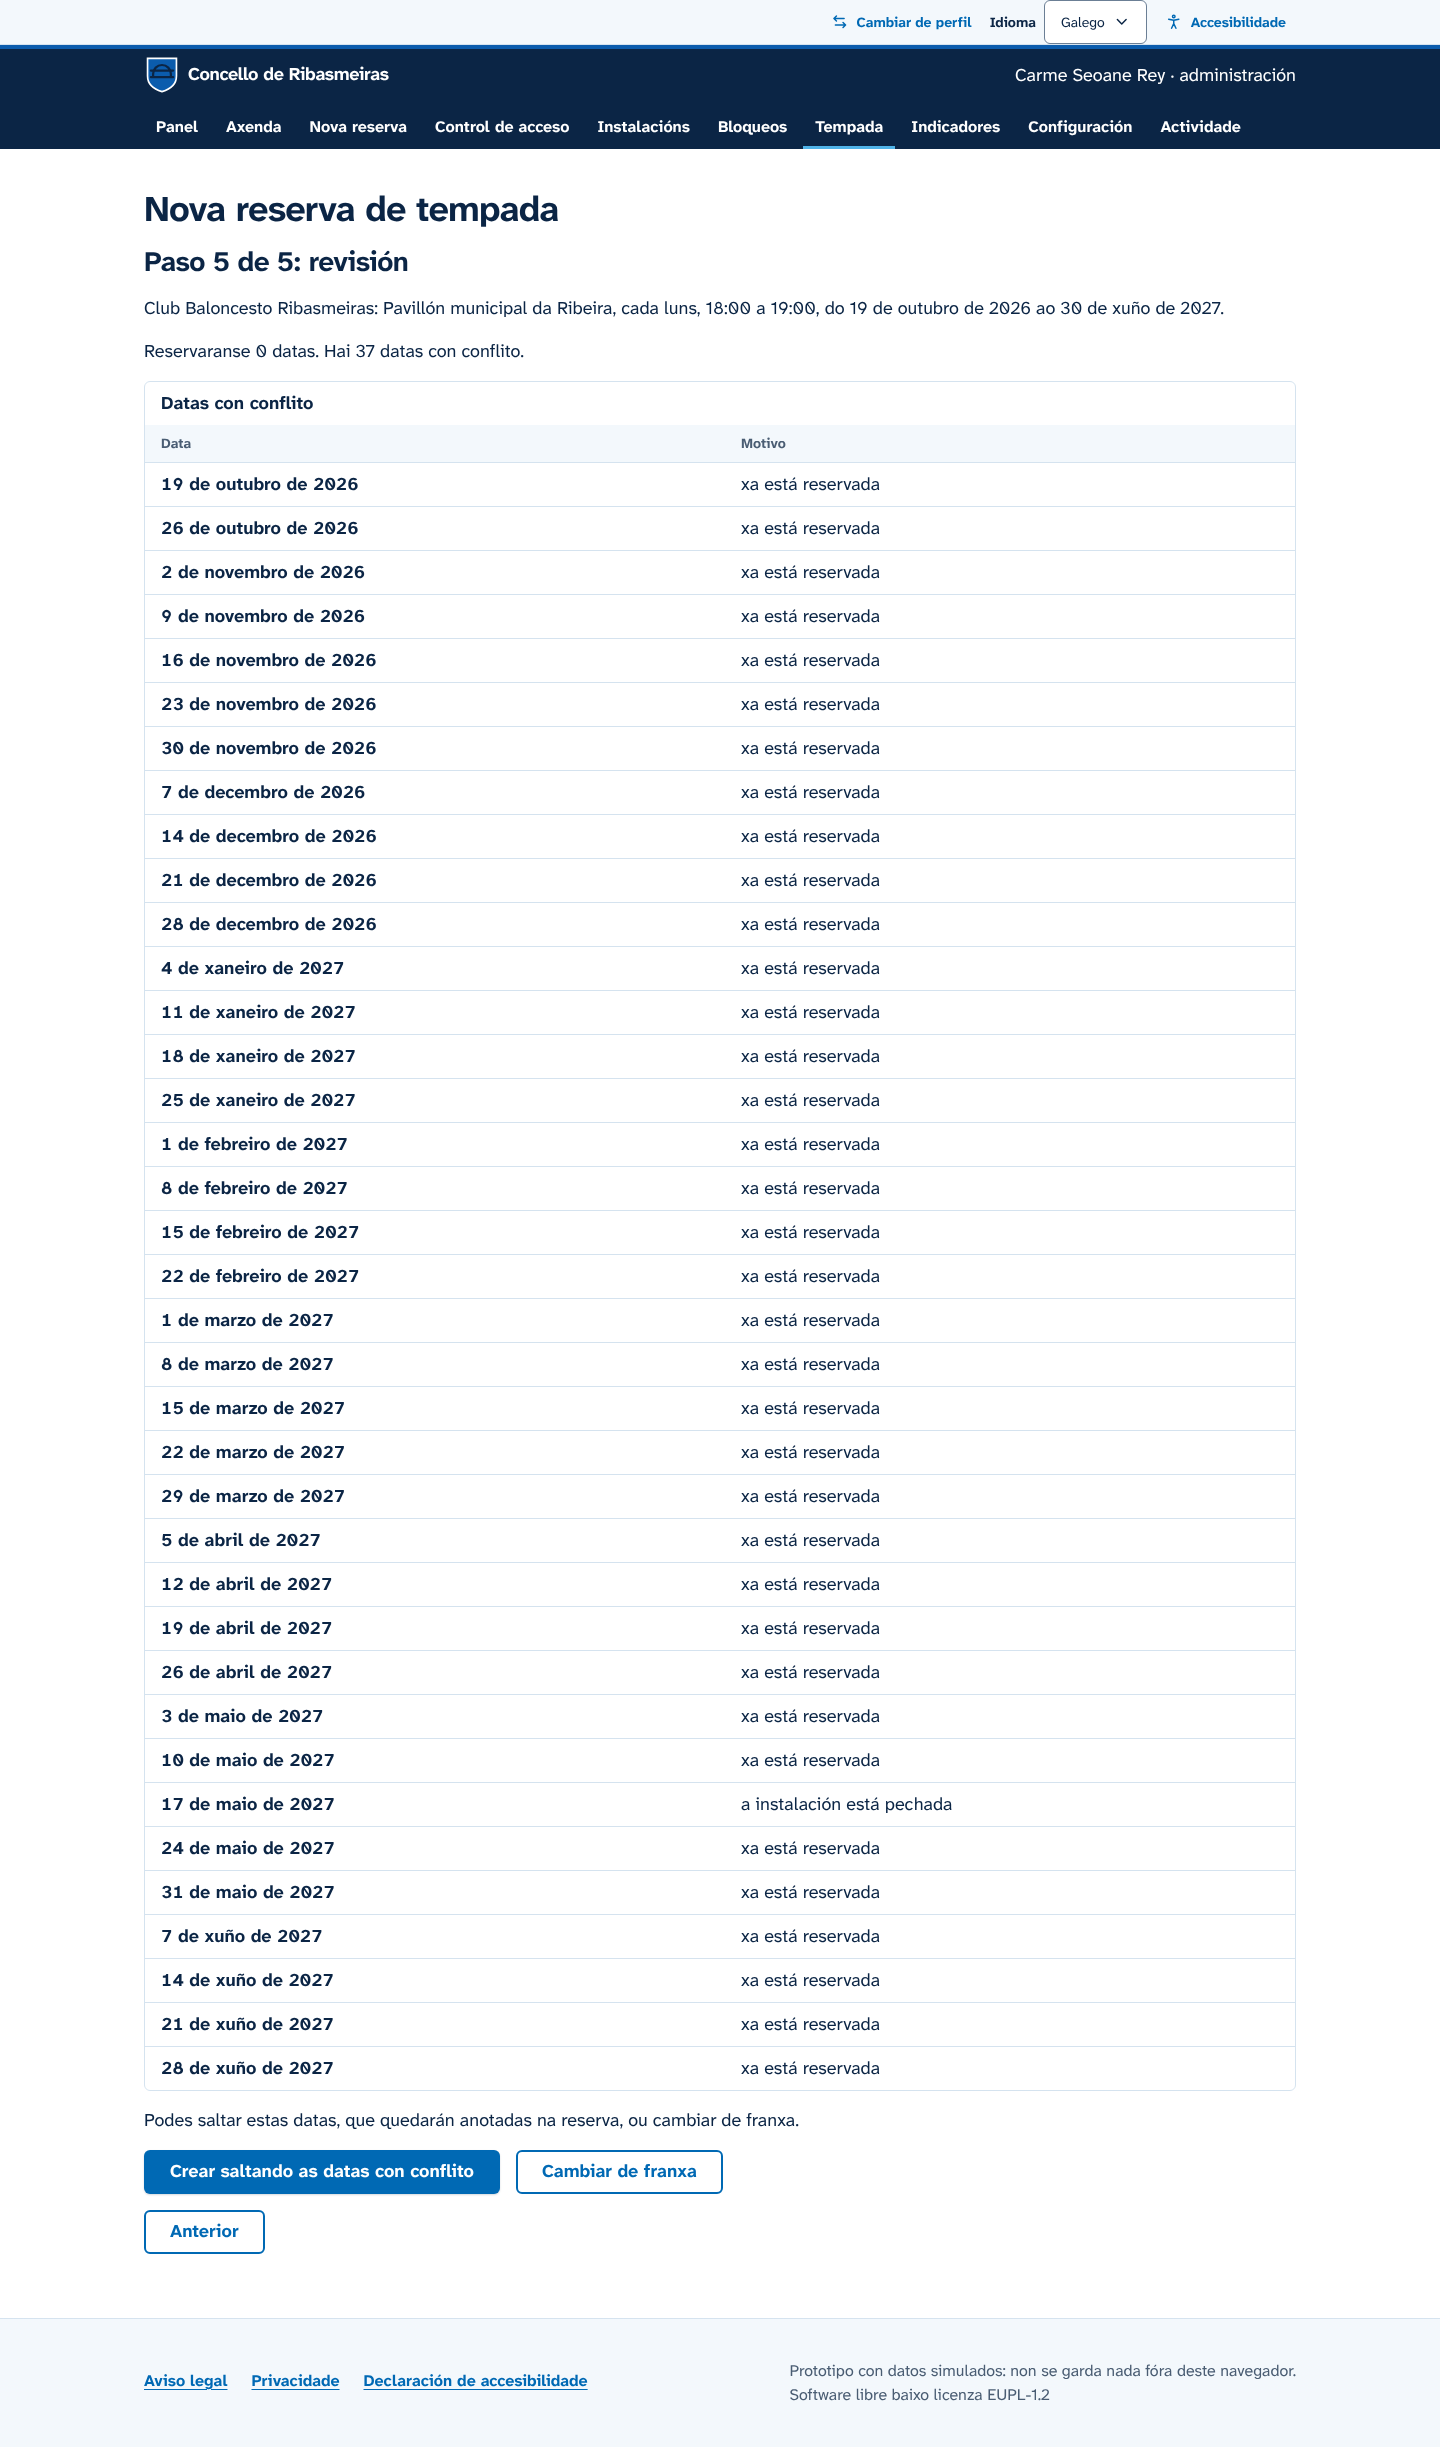
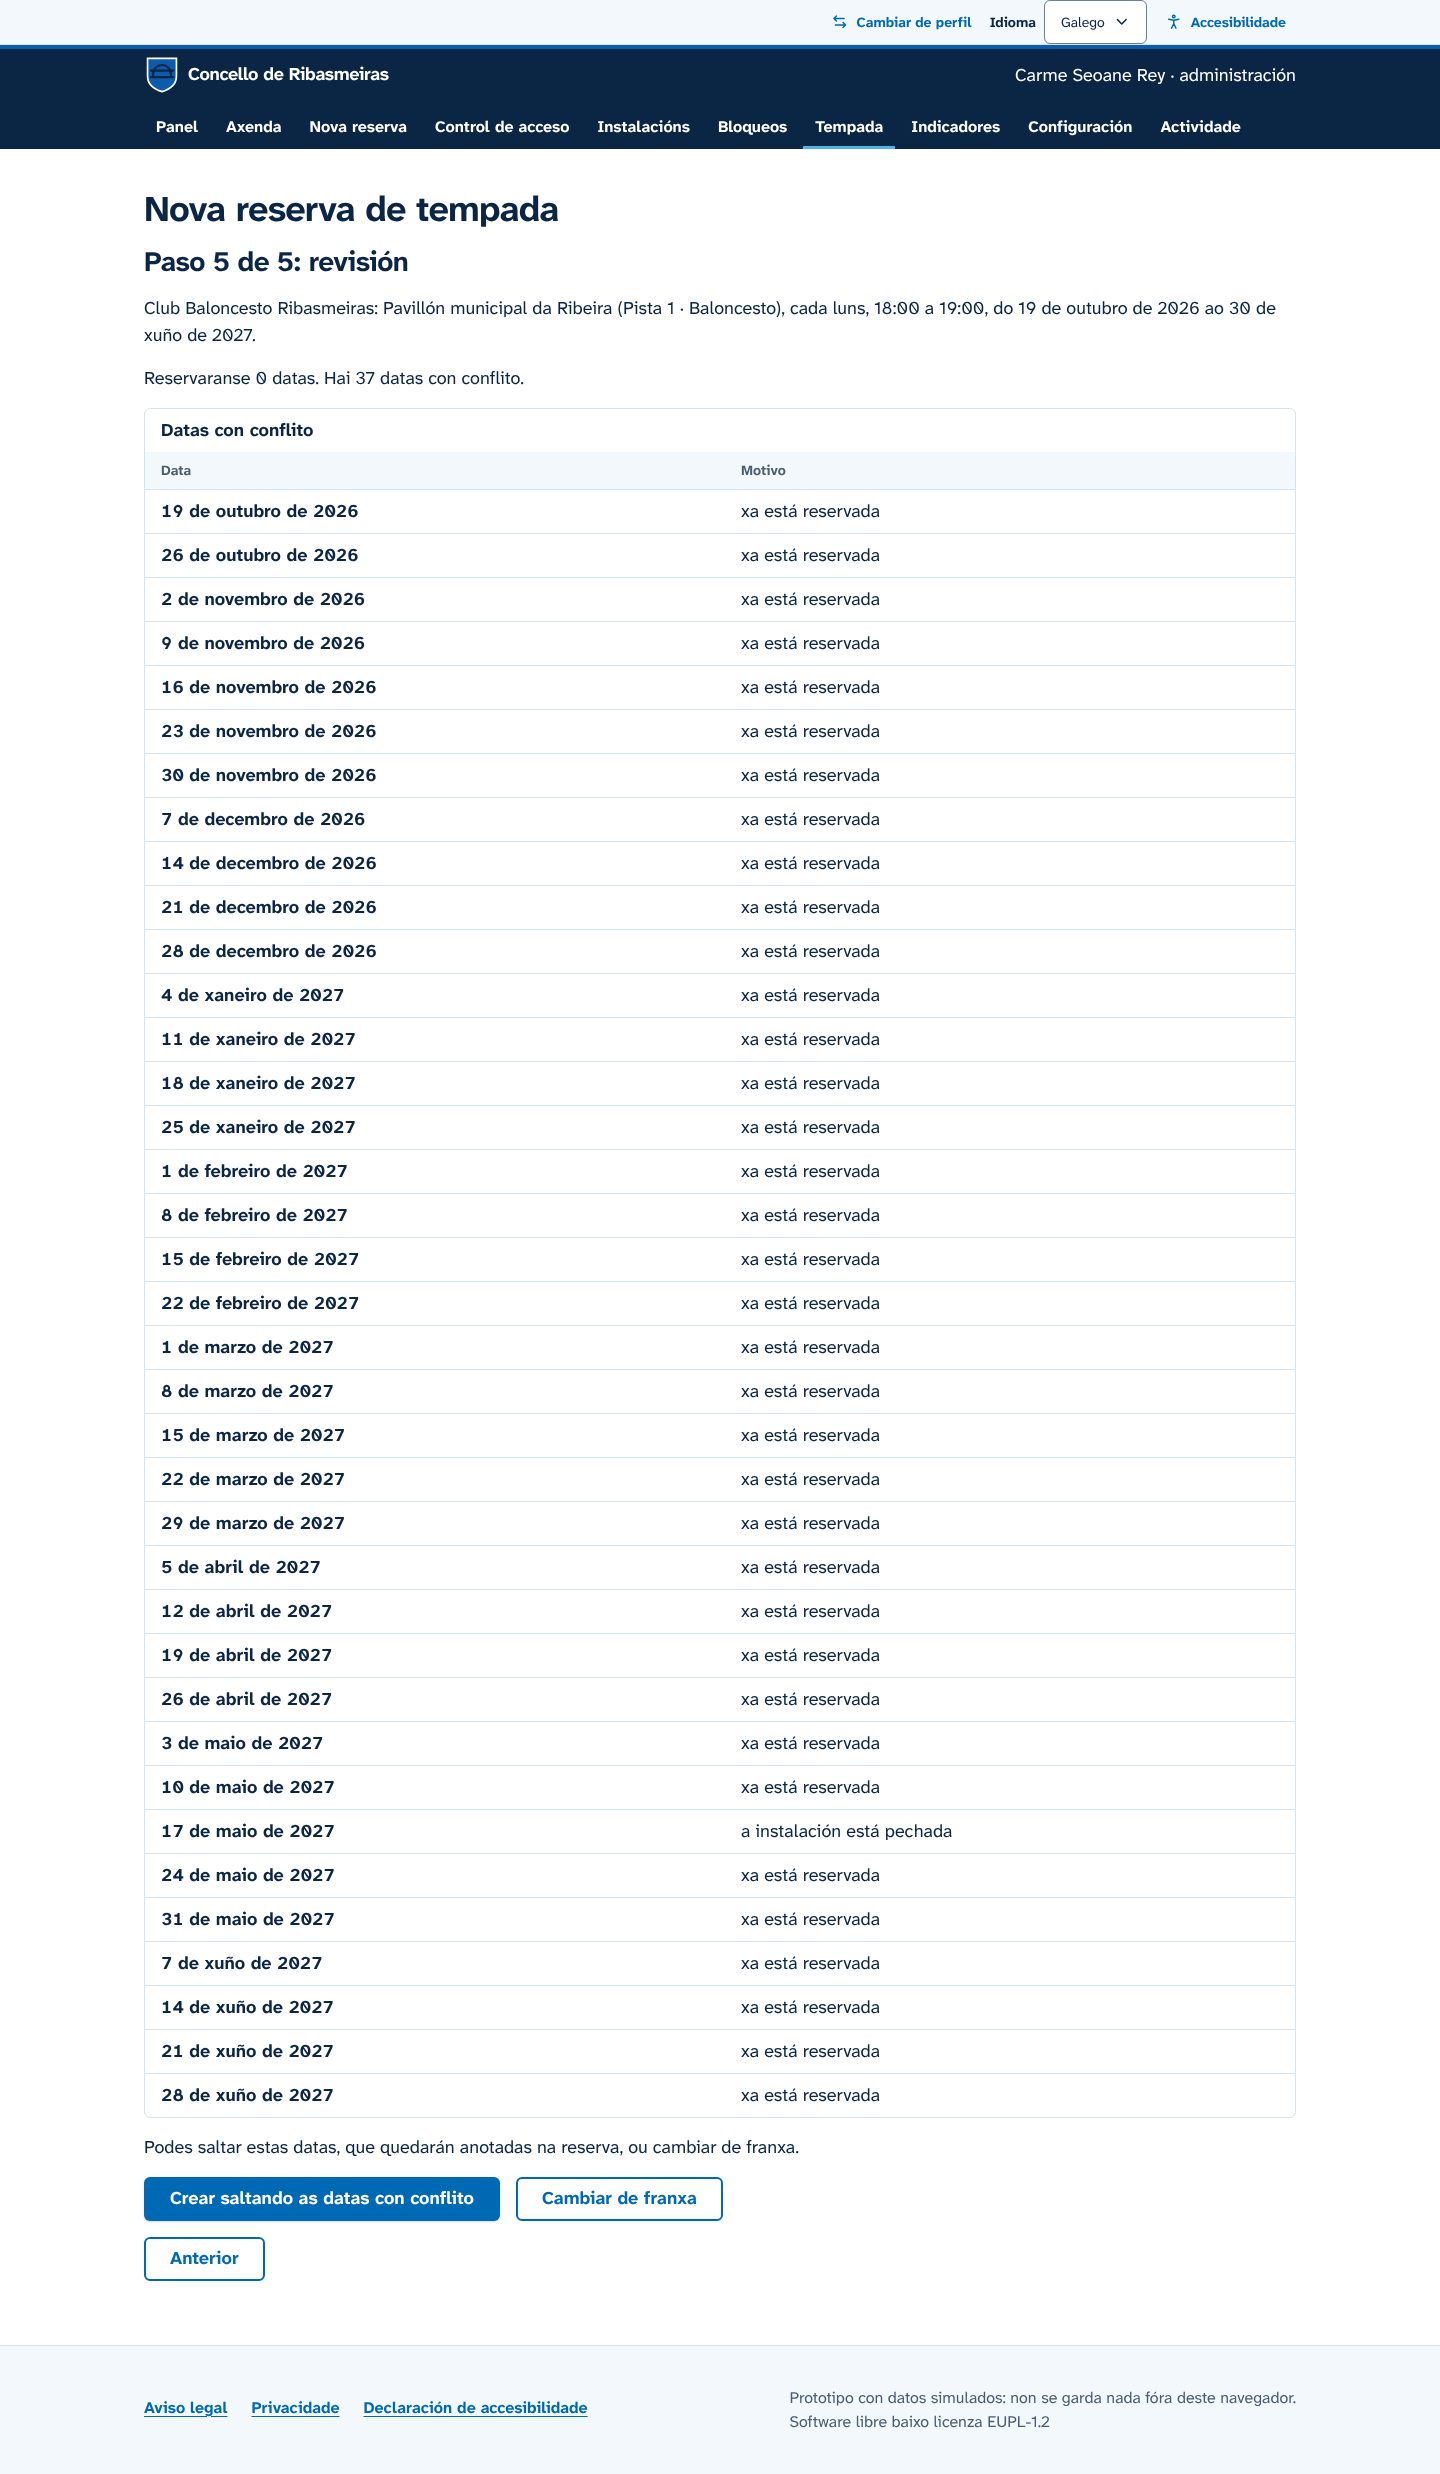
docs: deportes por espazo na API, no modelo de datos, no README e nas capturas

diff --git a/docs/arquitectura/modelo-datos.md b/docs/arquitectura/modelo-datos.md
@@ -72,6 +72,7 @@ erDiagram
     jsonb name
     int capacity
     text_array contains
+    text_array sports "deportes para os que se reserva"
   }
   SCHEDULE {
     uuid facility_id PK, FK
@@ -110,6 +111,7 @@ erDiagram
     text code UK "QDA-7K3M"
     uuid facility_id FK
     text subspace_id FK
+    text sport "se o espazo ten varios"
     date date
     time start_time
     time end_time
@@ -138,6 +140,7 @@ erDiagram
     uuid entity_id FK
     uuid facility_id FK
     text subspace_id
+    text sport
     int weekday
     time start_time
     time end_time
@@ -193,7 +196,8 @@ erDiagram
 ### Notas sobre o modelo
 
 - **Titular dunha reserva.** É unha persoa ou unha entidade, nunca as dúas: unha restrición `CHECK (num_nonnulls(user_id, entity_id) = 1)` garánteo.
-- **Espazos que se conteñen.** Un campo enteiro (`full`) contén os dous medios campos. O dominio considera ocupados os espazos relacionados, de modo que non se pode reservar o campo enteiro se un medio xa está collido (`subspacesOverlap` en `src/domain/rules/availability.ts`).
+- **Espazos que se conteñen.** Un campo enteiro (`full`) contén os dous medios campos. O dominio considera ocupados os espazos relacionados, de modo que non se pode reservar o campo enteiro se un medio xa está collido (`subspacesOverlap` en `src/domain/rules/availability.ts`). O concello configúrao en cada instalación («Ao reservalo, ocupa tamén»).
+- **Varios deportes nun mesmo espazo.** Cada espazo garda os deportes para os que se reserva (`sports`). Se ten máis dun, a reserva indica cal (`sport`) e o dominio rexeita unha reserva sen deporte ou cun que o espazo non ofrece (`sportProblem` en `src/domain/sports.ts`). Dúas metades da pista pódense reservar á vez para deportes distintos, e a pista enteira ocupa as dúas.
 - **Normas con herdanza.** `TENANT.default_rules` son as normas xerais e `FACILITY.rules` só garda as que cambian; `resolveRules` combínaas.
 - **Datas e horas locais.** As datas e horas de reservas, horarios e bloqueos son do calendario do concello (`time_zone`); os instantes (`created_at`, `checked_in_at`) gárdanse en UTC.
 - **Importes en céntimos** (`int`), para evitar erros de redondeo.

diff --git a/README.md b/README.md
@@ -61,7 +61,7 @@ Todas as pantallas completas, en móbil e escritorio, están en [`docs/capturas`
   <tr valign="top">
     <td>
       <ul>
-        <li>Buscar por tipo, día, franxa, accesibilidade física ou dispoñibilidade inmediata.</li>
+        <li>Buscar por tipo, deporte, día, franxa, accesibilidade física ou dispoñibilidade inmediata.</li>
         <li>Ver as franxas libres, coas horas de menos xente recomendadas.</li>
         <li>Reservar, cambiar e cancelar coas normas e o prezo visibles, e recibir un QR.</li>
         <li>Calendario mensual coas propias reservas e envío a Google Calendar, Outlook ou .ics.</li>
@@ -72,6 +72,7 @@ Todas as pantallas completas, en móbil e escritorio, están en [`docs/capturas`
       <ul>
         <li>Panel do día, axenda e reservas por teléfono ou no mostrador.</li>
         <li>Instalacións con fotos, horarios, festivos, normas e tarifas, sen código.</li>
+        <li>Espazos compartidos: os deportes de cada pista e que espazos ocupa a pista enteira.</li>
         <li>Bloqueos que avisan ás persoas afectadas e reservas de tempada dos clubs.</li>
         <li>Control de acceso por QR, indicadores con CSV e rexistro de actividade.</li>
         <li>Nome, escudo, cor, idiomas e textos legais configurables.</li>
